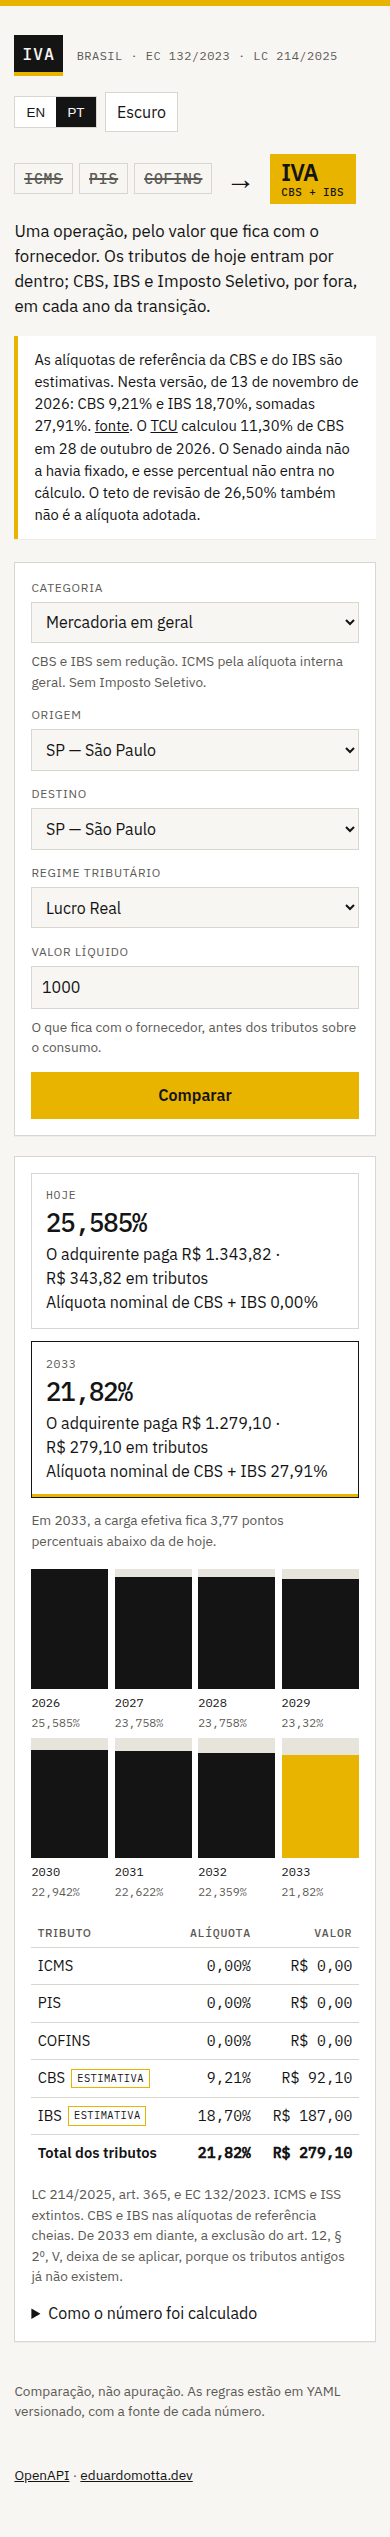
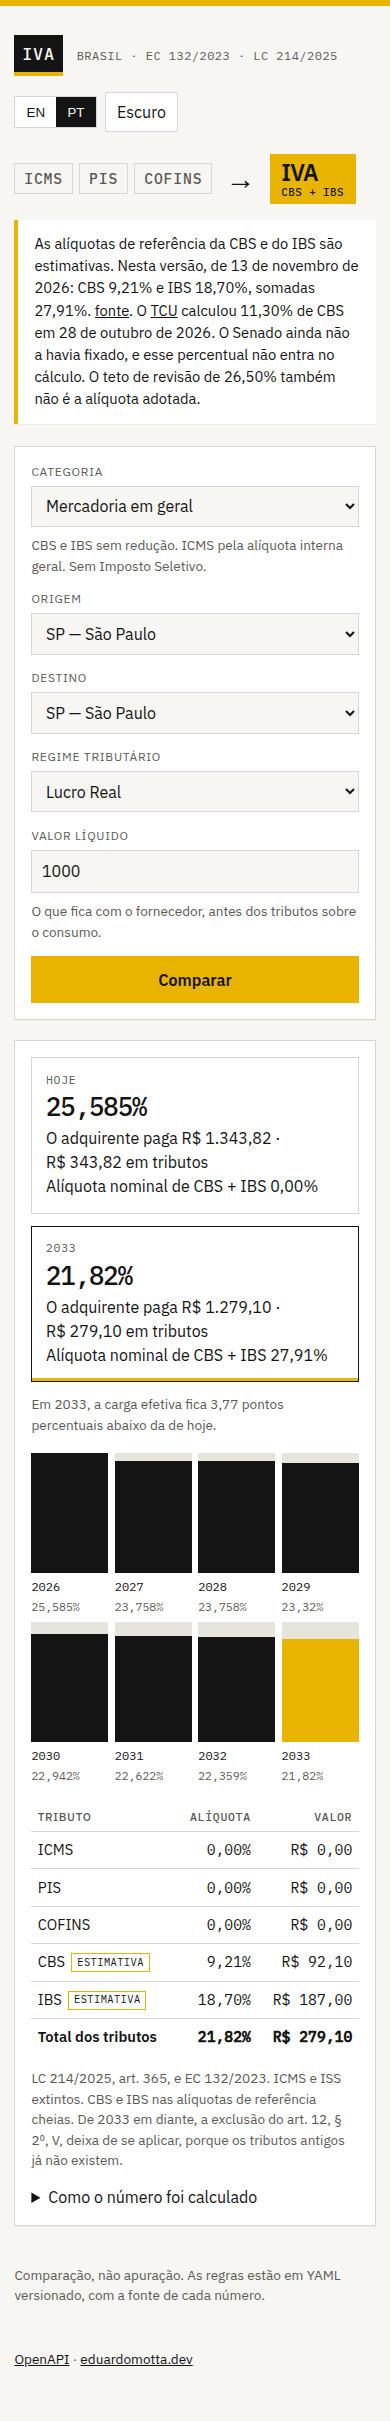
Drop the heading subtitle and the strikethrough on the old taxes.
The lockup is the title: muted ICMS, PIS and COFINS chips, an arrow, and IVA. The estimate note sits directly under it.

diff --git a/frontend/app.js b/frontend/app.js
@@ -3,7 +3,6 @@ const copy = {
     eyebrow: "Brazil · EC 132/2023 · LC 214/2025",
     pageTitle: "ICMS, PIS, COFINS → IVA",
     skip: "Skip to the result",
-    lede: "One supply, priced the way a supplier keeps it. The page grosses up today's taxes, then lays CBS, IBS and the selective tax on top, for every year of the transition.",
     lang: "Language",
     themeLight: "Dark",
     themeDark: "Light",
@@ -80,7 +79,6 @@ const copy = {
     eyebrow: "Brasil · EC 132/2023 · LC 214/2025",
     pageTitle: "ICMS, PIS, COFINS → IVA",
     skip: "Ir para o resultado",
-    lede: "Uma operação, pelo valor que fica com o fornecedor. Os tributos de hoje entram por dentro; CBS, IBS e Imposto Seletivo, por fora, em cada ano da transição.",
     lang: "Idioma",
     themeLight: "Escuro",
     themeDark: "Claro",
@@ -210,7 +208,6 @@ function applyChrome() {
   document.title = text.pageTitle;
   $("skip").textContent = text.skip;
   $("eyebrow").textContent = text.eyebrow;
-  $("lede").textContent = text.lede;
   $("label-category").textContent = text.category;
   $("label-origin").textContent = text.origin;
   $("label-destination").textContent = text.destination;

diff --git a/frontend/styles.css b/frontend/styles.css
@@ -55,7 +55,7 @@ body {
 
 .skip:focus { top: 0.8rem; }
 
-.top, .lockup, .lede, .notice, main, .colophon {
+.top, .lockup, .notice, main, .colophon {
   max-width: 1080px;
   margin-left: auto;
   margin-right: auto;
@@ -110,8 +110,6 @@ body {
   font-weight: 500;
   letter-spacing: 0.06em;
   color: var(--muted);
-  text-decoration: line-through;
-  text-decoration-thickness: 1.5px;
   border: 1px solid var(--line);
   padding: 0.48rem 0.55rem 0.4rem;
 }
@@ -177,12 +175,6 @@ body {
 .theme {
   border: 1px solid var(--line);
   background: var(--card);
-}
-
-.lede {
-  max-width: 62ch;
-  margin: 0.95rem 0 0;
-  font-size: 1.05rem;
 }
 
 .notice {

diff --git a/frontend/index.html b/frontend/index.html
@@ -44,7 +44,6 @@
         </span>
       </span>
     </h1>
-    <p class="lede" id="lede"></p>
     <aside class="notice" id="notice"></aside>
 
     <main>

diff --git a/README.md b/README.md
@@ -8,7 +8,7 @@ Eduardo de Moraes, a tax lawyer who now works as a senior backend engineer, keep
 
 ## The page
 
-English is the default. Portuguese is a toggle, and so is a dark theme. The heading is the comparison: ICMS, PIS and COFINS struck through, then IVA, which is CBS plus IBS. The yellow note is the estimate disclosure: the date, the pair of rates the arithmetic uses, and the TCU figure it does not use.
+English is the default. Portuguese is a toggle, and so is a dark theme. The heading is the comparison: ICMS, PIS and COFINS as muted chips, then IVA, which is CBS plus IBS. The yellow note is the estimate disclosure: the date, the pair of rates the arithmetic uses, and the TCU figure it does not use.
 
 Standard goods, São Paulo to São Paulo, Lucro Real, R$ 1,000 net.
 
